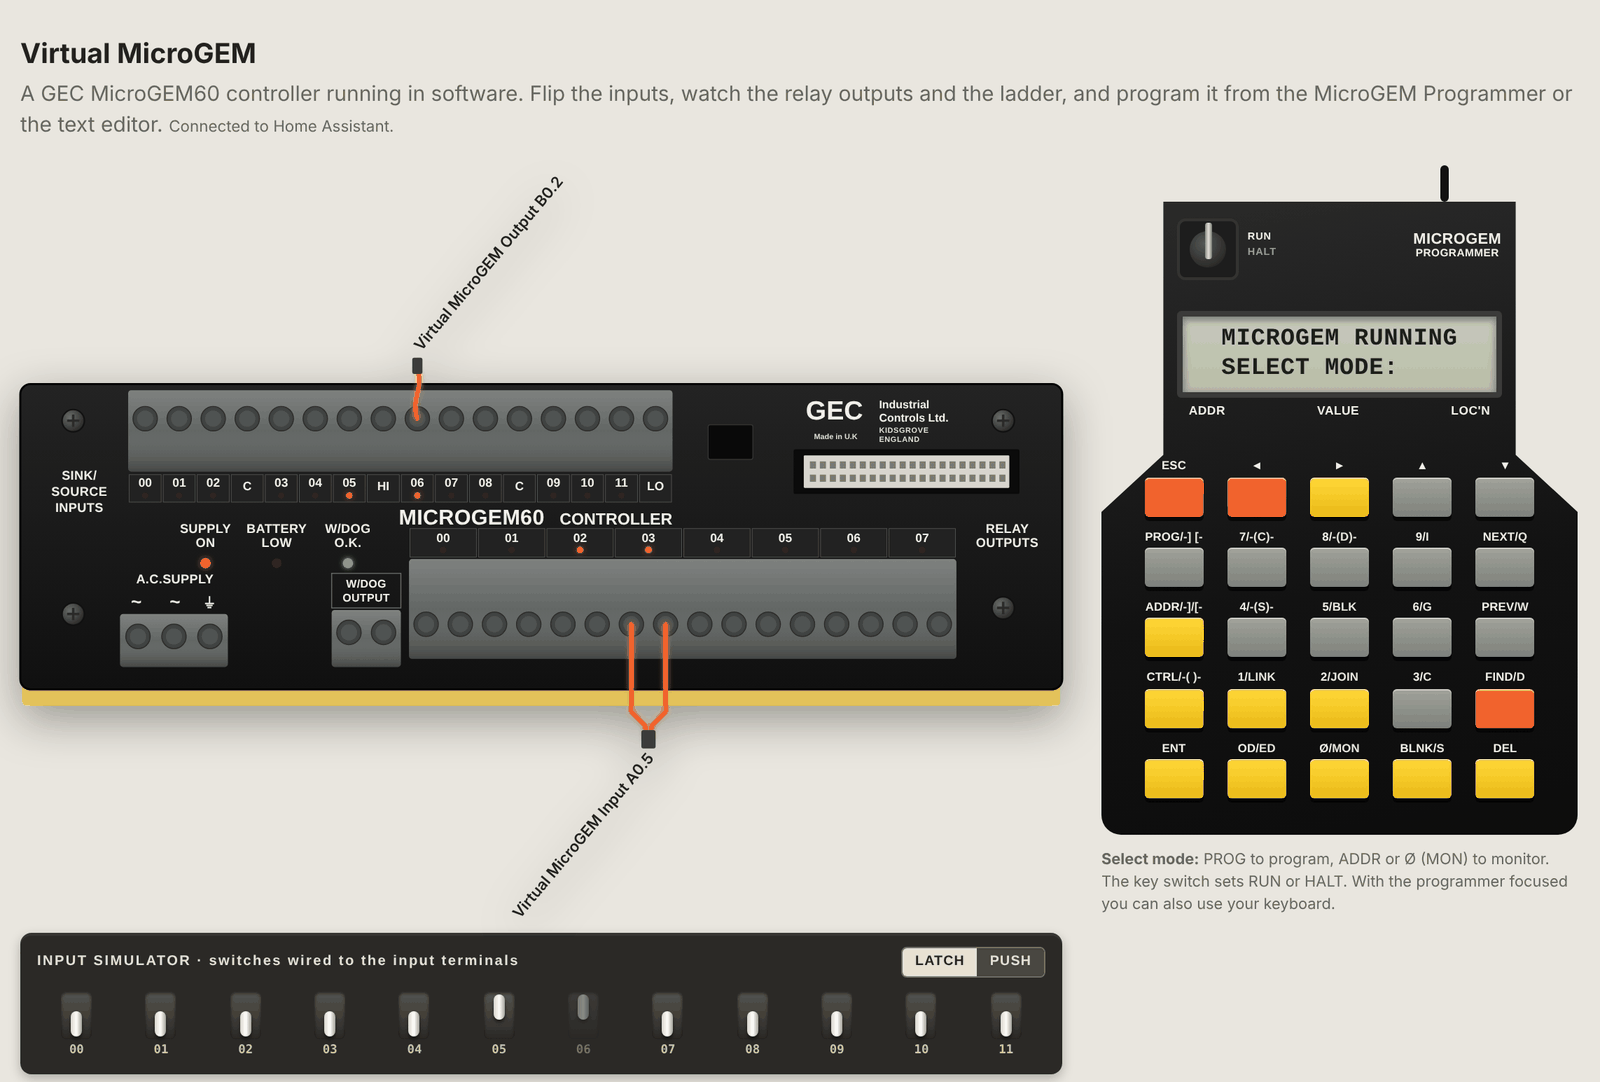
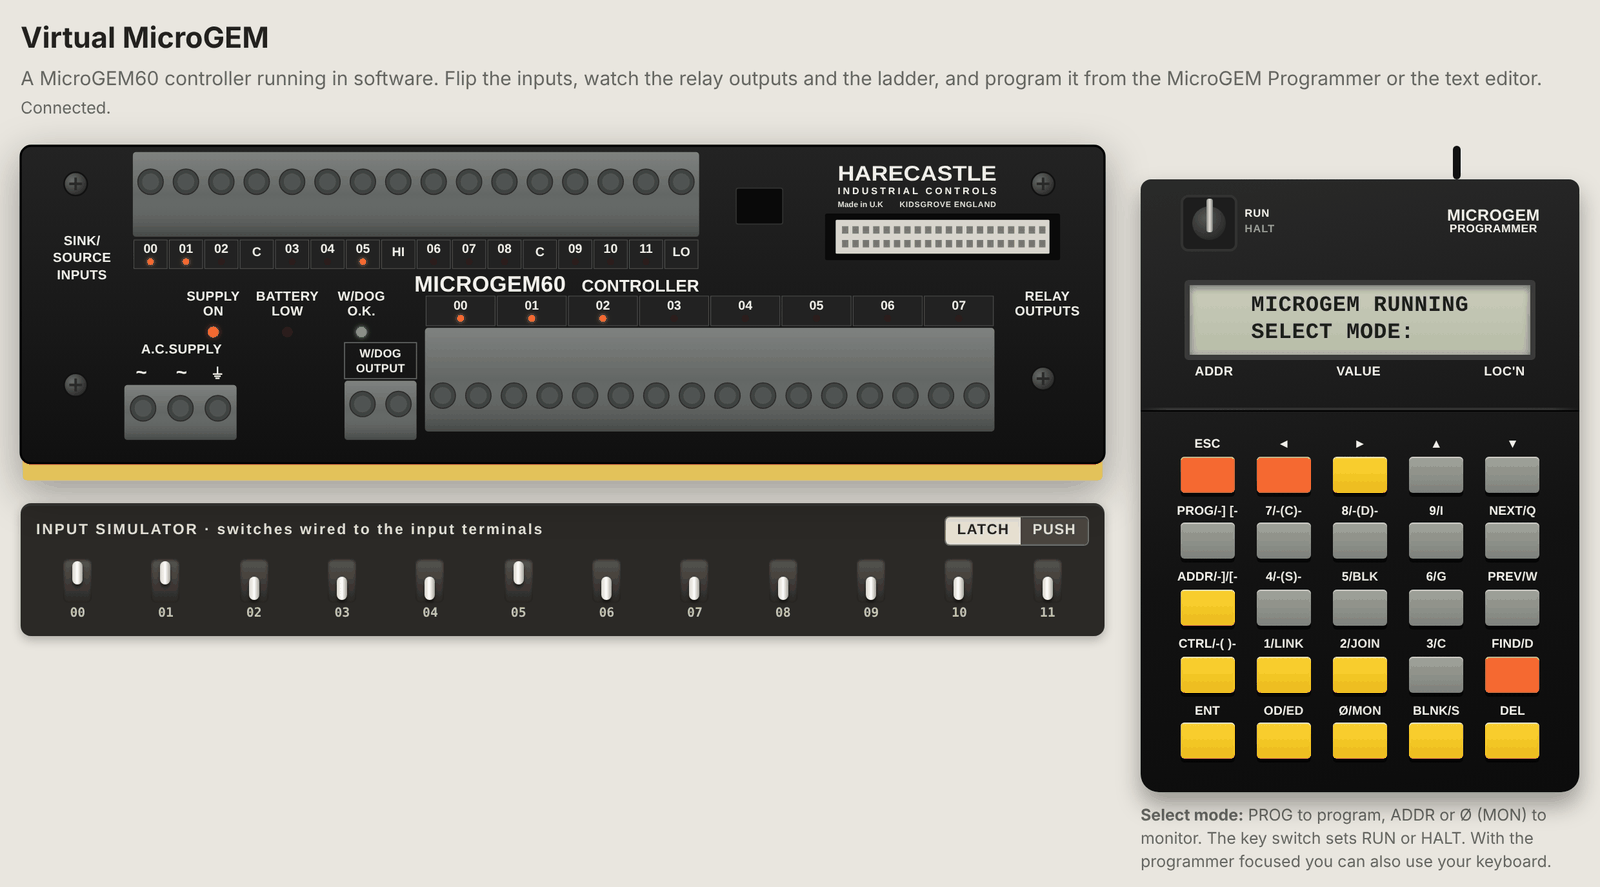
Show a fictional maker, Harecastle Industrial Controls, instead of GEC
The badge on the controller drawing, the device's manufacturer in Home
Assistant and the descriptions no longer carry the GEC mark. The maker is a
single MAKER constant in panel.js so it is easy to change. README screenshot
retaken from the standalone page.

Claude-Session: https://claude.ai/code/session_01HvFmq3iic8wKMKMrVUjRDQ

diff --git a/custom_components/microgem/frontend/panel.js b/custom_components/microgem/frontend/panel.js
@@ -1,8 +1,12 @@
-// <microgem-panel>: a GEC MicroGEM60 controller, its hand-held MicroGEM
+// <microgem-panel>: a MicroGEM60 controller, its hand-held MicroGEM
 // Programmer, a live ladder diagram, the program text and a data-table monitor.
 // The hardware is drawn from photos of a real MicroGEM60 and programmer.
 // Used by the standalone page (WebSocket transport) and by Home Assistant as a
 // custom panel (transport over Home Assistant's own connection).
+
+// The maker's badge on the drawing. The real units carried the GEC Industrial
+// Controls mark; this emulator is not theirs, so it shows a fictional maker.
+const MAKER = { mark: "HARECASTLE", line2: "INDUSTRIAL CONTROLS", place: "KIDSGROVE ENGLAND" };
 
 const STYLE = `
 :host {
@@ -179,7 +183,7 @@ const MARKUP = `
 <main>
   <header>
     <h1>Virtual MicroGEM</h1>
-    <p>A GEC MicroGEM60 controller running in software. Flip the inputs, watch the relay outputs and the ladder, and program it from the MicroGEM Programmer or the text editor. <span class="conn" id="conn">Connecting…</span></p>
+    <p>A MicroGEM60 controller running in software. Flip the inputs, watch the relay outputs and the ladder, and program it from the MicroGEM Programmer or the text editor. <span class="conn" id="conn">Connecting…</span></p>
   </header>
 
   <div class="hw">
@@ -342,7 +346,7 @@ function unitSvg(nIn, nOut, unit = 0, inBase = 0, outBase = 0, wires = { inputs:
     }
   }
 
-  const what = exp ? `MicroGEM expansion unit ${unit}` : "GEC MicroGEM60 controller";
+  const what = exp ? `MicroGEM expansion unit ${unit}` : "MicroGEM60 controller";
   // The controller has the programmer socket and watchdog; an expansion unit
   // shows its number and the A and B words it occupies there instead.
   const socket = exp
@@ -377,10 +381,10 @@ function unitSvg(nIn, nOut, unit = 0, inBase = 0, outBase = 0, wires = { inputs:
   ${inputs}
   <rect x="676" y="40" width="44" height="34" rx="2" fill="#090909" stroke="#333"/>
   <g transform="translate(748,14)">
-    <text x="24" y="21" style="font:900 26px Arial Black,Arial,sans-serif;fill:#eee">GEC</text>
-    <text x="96" y="10" style="font:700 11px Arial;fill:#eee">Industrial</text><text x="96" y="23" style="font:700 11px Arial;fill:#eee">Controls Ltd.</text>
-    <text x="96" y="34" style="font:600 7.5px Arial;fill:#ddd;letter-spacing:.06em">KIDSGROVE</text><text x="96" y="43" style="font:600 7.5px Arial;fill:#ddd;letter-spacing:.06em">ENGLAND</text>
-    <text x="32" y="40" style="font:600 7.5px Arial;fill:#ddd">Made in U.K</text>
+    <text x="24" y="19" textLength="150" lengthAdjust="spacingAndGlyphs" style="font:900 20px Arial Black,Arial,sans-serif;fill:#eee">${MAKER.mark}</text>
+    <text x="24" y="32" textLength="150" lengthAdjust="spacing" style="font:700 9px Arial;fill:#eee">${MAKER.line2}</text>
+    <text x="24" y="44" style="font:600 7.5px Arial;fill:#ddd">Made in U.K</text>
+    <text x="174" y="44" style="font:600 7.5px Arial;fill:#ddd;letter-spacing:.06em;text-anchor:end">${MAKER.place}</text>
   </g>
   ${socket}
   <text x="372" y="138" style="font:900 21px Arial Black,Arial,sans-serif;fill:#f2f2f2;letter-spacing:.01em">${exp ? "MICROGEM" : "MICROGEM60"}</text>

diff --git a/microgem/web/panel.js b/microgem/web/panel.js
@@ -1,8 +1,12 @@
-// <microgem-panel>: a GEC MicroGEM60 controller, its hand-held MicroGEM
+// <microgem-panel>: a MicroGEM60 controller, its hand-held MicroGEM
 // Programmer, a live ladder diagram, the program text and a data-table monitor.
 // The hardware is drawn from photos of a real MicroGEM60 and programmer.
 // Used by the standalone page (WebSocket transport) and by Home Assistant as a
 // custom panel (transport over Home Assistant's own connection).
+
+// The maker's badge on the drawing. The real units carried the GEC Industrial
+// Controls mark; this emulator is not theirs, so it shows a fictional maker.
+const MAKER = { mark: "HARECASTLE", line2: "INDUSTRIAL CONTROLS", place: "KIDSGROVE ENGLAND" };
 
 const STYLE = `
 :host {
@@ -179,7 +183,7 @@ const MARKUP = `
 <main>
   <header>
     <h1>Virtual MicroGEM</h1>
-    <p>A GEC MicroGEM60 controller running in software. Flip the inputs, watch the relay outputs and the ladder, and program it from the MicroGEM Programmer or the text editor. <span class="conn" id="conn">Connecting…</span></p>
+    <p>A MicroGEM60 controller running in software. Flip the inputs, watch the relay outputs and the ladder, and program it from the MicroGEM Programmer or the text editor. <span class="conn" id="conn">Connecting…</span></p>
   </header>
 
   <div class="hw">
@@ -342,7 +346,7 @@ function unitSvg(nIn, nOut, unit = 0, inBase = 0, outBase = 0, wires = { inputs:
     }
   }
 
-  const what = exp ? `MicroGEM expansion unit ${unit}` : "GEC MicroGEM60 controller";
+  const what = exp ? `MicroGEM expansion unit ${unit}` : "MicroGEM60 controller";
   // The controller has the programmer socket and watchdog; an expansion unit
   // shows its number and the A and B words it occupies there instead.
   const socket = exp
@@ -377,10 +381,10 @@ function unitSvg(nIn, nOut, unit = 0, inBase = 0, outBase = 0, wires = { inputs:
   ${inputs}
   <rect x="676" y="40" width="44" height="34" rx="2" fill="#090909" stroke="#333"/>
   <g transform="translate(748,14)">
-    <text x="24" y="21" style="font:900 26px Arial Black,Arial,sans-serif;fill:#eee">GEC</text>
-    <text x="96" y="10" style="font:700 11px Arial;fill:#eee">Industrial</text><text x="96" y="23" style="font:700 11px Arial;fill:#eee">Controls Ltd.</text>
-    <text x="96" y="34" style="font:600 7.5px Arial;fill:#ddd;letter-spacing:.06em">KIDSGROVE</text><text x="96" y="43" style="font:600 7.5px Arial;fill:#ddd;letter-spacing:.06em">ENGLAND</text>
-    <text x="32" y="40" style="font:600 7.5px Arial;fill:#ddd">Made in U.K</text>
+    <text x="24" y="19" textLength="150" lengthAdjust="spacingAndGlyphs" style="font:900 20px Arial Black,Arial,sans-serif;fill:#eee">${MAKER.mark}</text>
+    <text x="24" y="32" textLength="150" lengthAdjust="spacing" style="font:700 9px Arial;fill:#eee">${MAKER.line2}</text>
+    <text x="24" y="44" style="font:600 7.5px Arial;fill:#ddd">Made in U.K</text>
+    <text x="174" y="44" style="font:600 7.5px Arial;fill:#ddd;letter-spacing:.06em;text-anchor:end">${MAKER.place}</text>
   </g>
   ${socket}
   <text x="372" y="138" style="font:900 21px Arial Black,Arial,sans-serif;fill:#f2f2f2;letter-spacing:.01em">${exp ? "MICROGEM" : "MICROGEM60"}</text>

diff --git a/custom_components/microgem/entity.py b/custom_components/microgem/entity.py
@@ -25,7 +25,7 @@ class MicroGemEntity(Entity):
         self._attr_device_info = DeviceInfo(
             identifiers={(DOMAIN, entry_id)},
             name=title,
-            manufacturer="GEC (virtual)",
+            manufacturer="Harecastle Controls (fictional)",
             model="MicroGEM",
             sw_version=__version__,
         )

diff --git a/custom_components/microgem/core/__init__.py b/custom_components/microgem/core/__init__.py
@@ -1,4 +1,4 @@
-"""A virtual GEC MicroGEM / GEM 80 programmable controller."""
+"""A virtual MicroGEM / GEM 80 style programmable controller."""
 
 from .engine import MAX_EXPANSIONS, Controller, ControllerConfig
 from .program import ProgramError, parse_program

diff --git a/microgem/__init__.py b/microgem/__init__.py
@@ -1,4 +1,4 @@
-"""A virtual GEC MicroGEM / GEM 80 programmable controller."""
+"""A virtual MicroGEM / GEM 80 style programmable controller."""
 
 from .engine import MAX_EXPANSIONS, Controller, ControllerConfig
 from .program import ProgramError, parse_program

diff --git a/README.md b/README.md
@@ -11,7 +11,7 @@ GEM 80 style data tables and shows a front panel whose input and output lights
 change live. In Home Assistant the virtual controller's relays can switch real
 lights, and its inputs can be wired to real sensors.
 
-![The virtual MicroGEM60 controller and programmer in Home Assistant, with one input and one relay output wired to entities](https://raw.githubusercontent.com/Vortitron/MicroGem/main/docs/images/front-panel.png)
+![The virtual MicroGEM60 controller, input simulator and programmer, with three inputs on and their relay outputs lit](https://raw.githubusercontent.com/Vortitron/MicroGem/main/docs/images/front-panel.png)
 
 ## Install in Home Assistant
 
@@ -230,8 +230,9 @@ they match). [RELEASING.md](RELEASING.md) explains how to cut a release.
 This is an independent hobby project. It is not made, endorsed or supported by
 GEC, GEC Industrial Controls, Cegelec, Alstom, Converteam, GE or any of their
 successors. The names GEC, GEM 80 and MicroGEM are used only to say which
-hardware is being emulated. Do not use it to control anything where a fault
-could hurt someone.
+hardware is being emulated. The controller drawing carries the badge of a
+made-up maker, Harecastle Industrial Controls, not the GEC mark. Do not use it
+to control anything where a fault could hurt someone.
 
 ## Licence
 
